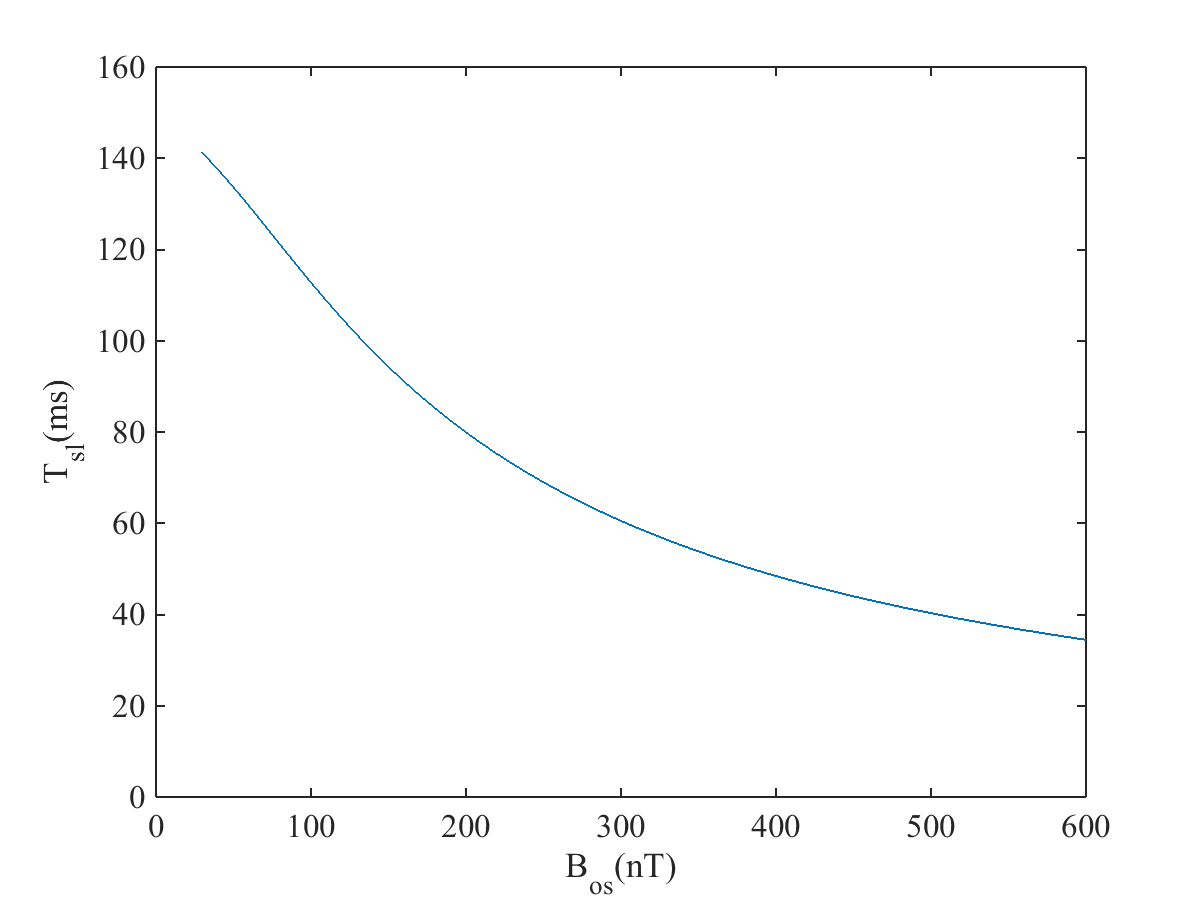
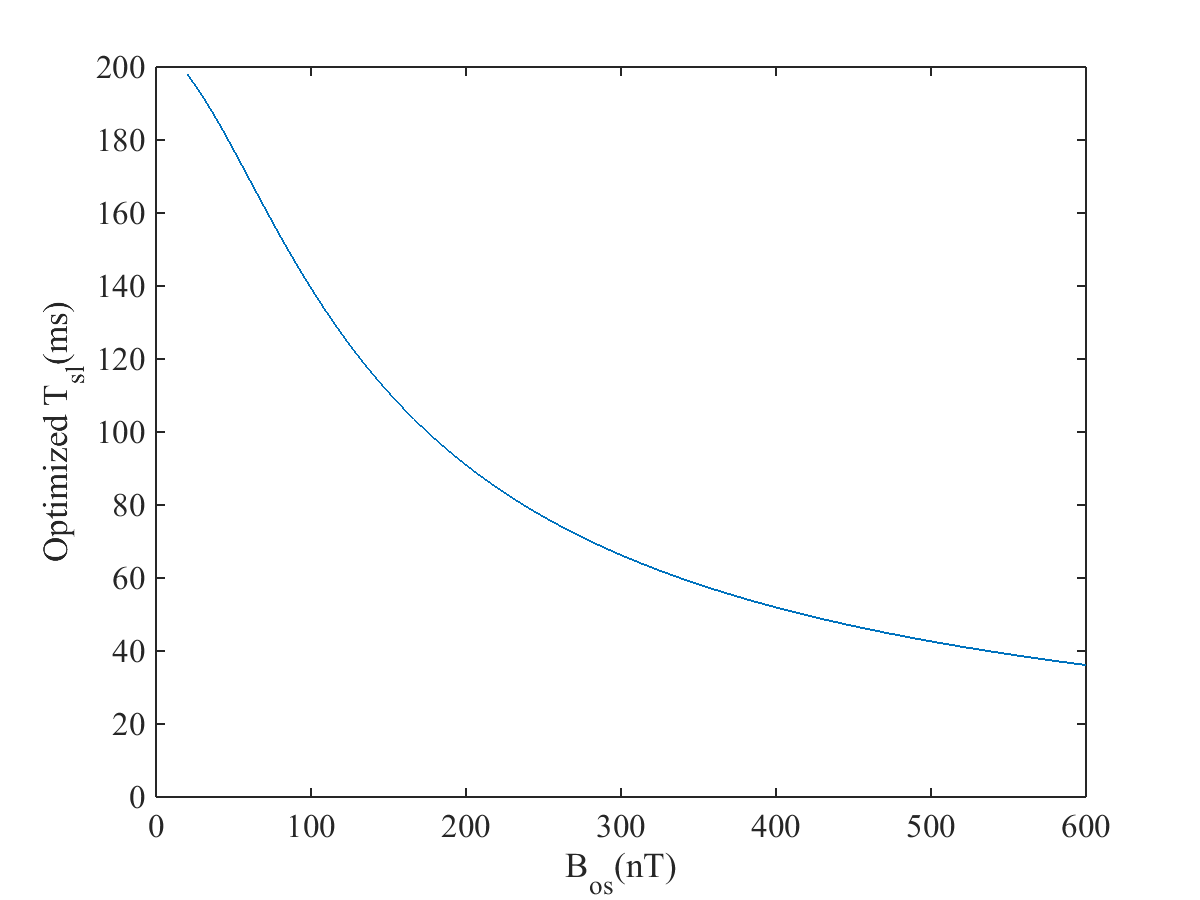
revise

diff --git a/bloch_sotsuron/Msl_tsl_T1r.m b/bloch_sotsuron/Msl_tsl_T1r.m
@@ -2,6 +2,7 @@ clear;
 close all;
 
 addpath('./bloch_spinlock'); %path of the using function(bloch_first and bloch_second)
+addpath('./Newton');
 
 gamma = 2 * pi * 42.58e6;
 FA = deg2rad(90); %flip angle   %rad
@@ -20,44 +21,48 @@ M_i = [0; 0; 1];
 %-------------------------------------------------------------------------------
 %parameter of Spin Lock
 %-------------------------------------------------------------------------------
-T1r = 60e-3;
+T1r = linspace(1e-3,500e-3,1e3);
 T2r = 100e-3;
 fsl = 100; %spin lock frequency   %Hz
 fos = 100; %brain frequency   %Hz
 omega_os = 2 * pi * fos;
 Bsl = (fsl * 2 * pi)/gamma;
-Bos = 480e-9;
-tsl = linspace(0,1000e-3,1e3);
+Bos = 80e-9;
+b_os_x0 = Bos/2;
+b_os_z0 = 0;
+omega_sl = gamma * [b_os_x0; Bsl; b_os_z0];
 
 %-------------------------------------------------------------------------------
 %parameter of Newton's methods
 %-------------------------------------------------------------------------------
 [M] = bloch_first( T1, T2, b_x0, b_y0, trf, M_inf, M_i );
-R1r = 1/T1r;
 R2r = 1/T2r;
-b_os_x0 = Bos/2;
-b_os_z0 = 0;
-omega_sl = gamma * [b_os_x0; Bsl; b_os_z0];
-al = (R1r+R2r)/2;
-be = sqrt( omega_sl(1)^2 + omega_sl(3)^2 - (R1r-R2r)^2/4 );
-A = (-al+R2r)*M(2)-omega_sl(3)*M(1)+omega_sl(1)*M(3);
+tsl = zeros(1,size(Bos,2));
 
-%-------------------------------------------------------------------------------
-%function
-%-------------------------------------------------------------------------------
-f = zeros(size(tsl));
-df = zeros(size(tsl));
-for i = 1:size(tsl,2)
-  f(i) = M(2)*exp(-tsl(i)/T1r)-exp(-al*tsl(i))*( M(2)*cos(be*tsl(i))+A/be*sin(be*tsl(i)) );
-  df(i) = -M(2)/T1r*exp(-tsl(i)/T1r)+exp(-al*tsl(i))*( al*M(2)*cos(be*tsl(i))+be*M(2)*sin(be*tsl(i))+A*al/be*sin(be*tsl(i))-A*cos(be*tsl(i)) );
+for i = 1:size(T1r,2)
+  R1r = 1/T1r(i);
+  al = (R1r+R2r)/2;
+  be = sqrt( omega_sl(1)^2 + omega_sl(3)^2 - (R1r-R2r)^2/4 );
+  A = (-al+R2r)*M(2)-omega_sl(3)*M(1)+omega_sl(1)*M(3);
+  %-------------------------------------------------------------------------------
+  %Newton's methods
+  %-------------------------------------------------------------------------------
+  df = @(t) -M(2)/T1r(i)*exp(-t/T1r(i))+exp(-al*t)*( al*M(2)*cos(be*t)+be*M(2)*sin(be*t)+A*al/be*sin(be*t)-A*cos(be*t) );
+  ddf = @(t) M(2)/T1r(i)^2*exp(-t/T1r(i))+exp(-al*t)*( -al^2*M(2)*cos(be*t)-2*al*be*M(2)*sin(be*t)-A*al^2/be*sin(be*t)...
+  +2*al*A*cos(be*t)+A*be*sin(be*t)+be^2*M(2)*cos(be*t) ); %Derivative of df
+
+  [ta] = newton_opt(df,ddf);
+  [tsl_opt] = secondmin(ta);
+  tsl(i) = tsl_opt;
 end
 
 figure;
-plot(tsl*1e3,f,tsl*1e3,df);
-xlabel('T_{sl}[ms]');
-legend('f','df');
-xlim([0,1000]);
+plot(T1r*1e3,tsl*1e3);
+xlabel('T_{1\rho}(ms)');
+ylabel('Optimized T_{sl}(ms)');
+xlim([0,200]);
+ylim([0,200]);
 ax = gca;
 ax.FontName = 'Times New Roman';
 ax.FontSize = 16;
-saveas(gcf,'./Result/Msl_tsl_opt','png');
+saveas(gcf,'./Result/T1r_tsl','png');

diff --git a/bloch_sotsuron/Msl_tsl_T1rBos.m b/bloch_sotsuron/Msl_tsl_T1rBos.m
@@ -1,0 +1,71 @@
+clear;
+close all;
+
+addpath('./bloch_spinlock'); %path of the using function(bloch_first and bloch_second)
+addpath('./Newton');
+
+gamma = 2 * pi * 42.58e6;
+FA = deg2rad(90); %flip angle   %rad
+
+%-------------------------------------------------------------------------------
+%parameter of bloch_first
+%-------------------------------------------------------------------------------
+T1 = 100e-3;
+T2 = 80e-3;
+trf = 1e-3;  %given parameter
+b_x0 = FA/(gamma*trf);
+b_y0 = 0;
+M_inf = 1;
+M_i = [0; 0; 1];
+
+%-------------------------------------------------------------------------------
+%parameter of Spin Lock
+%-------------------------------------------------------------------------------
+T1r = linspace(1e-3,500e-3,1e2);
+T2r = 100e-3;
+fsl = 100; %spin lock frequency   %Hz
+fos = 100; %brain frequency   %Hz
+omega_os = 2 * pi * fos;
+Bsl = (fsl * 2 * pi)/gamma;
+Bos = linspace(80e-9,560e-9,7);
+
+%-------------------------------------------------------------------------------
+%parameter of Newton's methods
+%-------------------------------------------------------------------------------
+[M] = bloch_first( T1, T2, b_x0, b_y0, trf, M_inf, M_i );
+R2r = 1/T2r;
+tsl = zeros(size(Bos,2),size(T1r,2));
+
+for i = 1:size(Bos,2)
+  b_os_x0 = Bos(i)/2;
+  b_os_z0 = 0;
+  omega_sl = gamma * [b_os_x0; Bsl; b_os_z0];
+  for j = 1:size(T1r,2)
+    R1r = 1/T1r(j);
+    al = (R1r+R2r)/2;
+    be = sqrt( omega_sl(1)^2 + omega_sl(3)^2 - (R1r-R2r)^2/4 );
+    A = (-al+R2r)*M(2)-omega_sl(3)*M(1)+omega_sl(1)*M(3);
+    %-------------------------------------------------------------------------------
+    %Newton's methods
+    %-------------------------------------------------------------------------------
+    df = @(t) -M(2)/T1r(j)*exp(-t/T1r(j))+exp(-al*t)*( al*M(2)*cos(be*t)+be*M(2)*sin(be*t)+A*al/be*sin(be*t)-A*cos(be*t) );
+    ddf = @(t) M(2)/T1r(j)^2*exp(-t/T1r(j))+exp(-al*t)*( -al^2*M(2)*cos(be*t)-2*al*be*M(2)*sin(be*t)-A*al^2/be*sin(be*t)...
+    +2*al*A*cos(be*t)+A*be*sin(be*t)+be^2*M(2)*cos(be*t) ); %Derivative of df
+
+    [ta] = newton_opt(df,ddf);
+    [tsl_opt] = secondmin(ta);
+    tsl(i,j) = tsl_opt;
+  end
+end
+
+figure;
+plot(T1r*1e3,tsl*1e3);
+legend('B_{os}=80nT','B_{os}=160nT','B_{os}=240nT','B_{os}=320nT','B_{os}=400nT','B_{os}=480nT','B_{os}=560nT','Location','northwest');
+xlabel('T_{1\rho}(ms)');
+ylabel('Optimized T_{sl}(ms)');
+xlim([0,200]);
+ylim([0,50]);
+ax = gca;
+ax.FontName = 'Times New Roman';
+ax.FontSize = 16;
+saveas(gcf,'./Result/T1rbos_tsl','png');

diff --git a/bloch_sotsuron/Msl_tsl_bos.m b/bloch_sotsuron/Msl_tsl_bos.m
@@ -10,8 +10,8 @@ FA = deg2rad(90); %flip angle   %rad
 %-------------------------------------------------------------------------------
 %parameter of bloch_first
 %-------------------------------------------------------------------------------
-T1 = 50e-3;
-T2 = 55e-3;
+T1 = 100e-3;
+T2 = 80e-3;
 trf = 1e-3;  %given parameter
 b_x0 = FA/(gamma*trf);
 b_y0 = 0;
@@ -21,13 +21,13 @@ M_i = [0; 0; 1];
 %-------------------------------------------------------------------------------
 %parameter of Spin Lock
 %-------------------------------------------------------------------------------
-T1r = 60e-3;
+T1r = 100e-3;
 T2r = 100e-3;
 fsl = 100; %spin lock frequency   %Hz
 fos = 100; %brain frequency   %Hz
 omega_os = 2 * pi * fos;
 Bsl = (fsl * 2 * pi)/gamma;
-Bos = linspace(30e-9,600e-9,1e2);
+Bos = linspace(20e-9,600e-9,1e2);
 
 %-------------------------------------------------------------------------------
 %parameter of Newton's methods
@@ -37,7 +37,7 @@ R1r = 1/T1r;
 R2r = 1/T2r;
 al = (R1r+R2r)/2;
 %N_max = 100;
-tsl = zeros(1,size(Bos,2));
+tsl = zeros(1,size(T1r,2));
 %t = [1e-3,1e-2,4e-2,6e-2,8e-2,1e-1,1.5e-1];
 %ta = zeros(size(t));
 
@@ -86,9 +86,9 @@ end
 figure;
 plot(Bos*1e9,tsl*1e3);
 xlabel('B_{os}(nT)');
-ylabel('T_{sl}(ms)');
+ylabel('Optimized T_{sl}(ms)');
 xlim([0,600]);
-ylim([0,160]);
+ylim([0,200]);
 ax = gca;
 ax.FontName = 'Times New Roman';
 ax.FontSize = 16;

diff --git a/bloch_sotsuron/Newton/newton_opt.m b/bloch_sotsuron/Newton/newton_opt.m
@@ -1,7 +1,7 @@
-function [t_nt] = newton(df,ddf)
+function [t_nt] = newton_opt(df,ddf)
   %Dynamics of magnetization in primary rotating coordinate system
 
-  t = [5e-4,1e-3,5e-3,1e-2,4e-2,6e-2,8e-2,1e-1,1.5e-1]; %Initial Value
+  t = [5e-4,1e-3,5e-3,1e-2,2e-2,4e-2,6e-2,8e-2,1e-1,1.5e-1]; %Initial Value
   N_max = 100;
   t_nt = zeros(size(t));
 
@@ -21,7 +21,7 @@ function [t_nt] = newton(df,ddf)
     else
       if t_old < 0
         t_nt(i) = 0; %Inappropriate
-      elseif df(t_old - 1e-4)>0 & df(t_old + 1e-4)<0
+      elseif df(t_old - 1e-4)>0 && df(t_old + 1e-4)<0
         t_nt(i) = t_old; %Maximal Value
       else
         t_nt(i) = 0;  %Minimum value

diff --git a/bloch_sotsuron/Msl_tsl_opt.m b/bloch_sotsuron/Msl_tsl_opt.m
@@ -10,8 +10,8 @@ FA = deg2rad(90); %flip angle   %rad
 %-------------------------------------------------------------------------------
 %parameter of bloch_first
 %-------------------------------------------------------------------------------
-T1 = 50e-3;
-T2 = 55e-3;
+T1 = 100e-3;
+T2 = 80e-3;
 trf = 1e-3;  %given parameter
 b_x0 = FA/(gamma*trf);
 b_y0 = 0;
@@ -27,7 +27,7 @@ fsl = 100; %spin lock frequency   %Hz
 fos = 100; %brain frequency   %Hz
 omega_os = 2 * pi * fos;
 Bsl = (fsl * 2 * pi)/gamma;
-Bos =364e-9;
+Bos =80e-9;
 
 %-------------------------------------------------------------------------------
 %parameter of Newton's methods

diff --git a/bloch_sotsuron/Newton/newton.m b/bloch_sotsuron/Newton/newton.m
@@ -21,7 +21,7 @@ function [t_nt] = newton(df,ddf)
     else
       if t_old < 0
         t_nt(i) = 1e10; %Inappropriate
-      elseif df(t_old - 1e-4)>0 & df(t_old + 1e-4)<0
+      elseif df(t_old - 1e-4)>0 && df(t_old + 1e-4)<0
         t_nt(i) = t_old; %Maximal Value
       else
         t_nt(i) = 1e5;  %Minimum value
